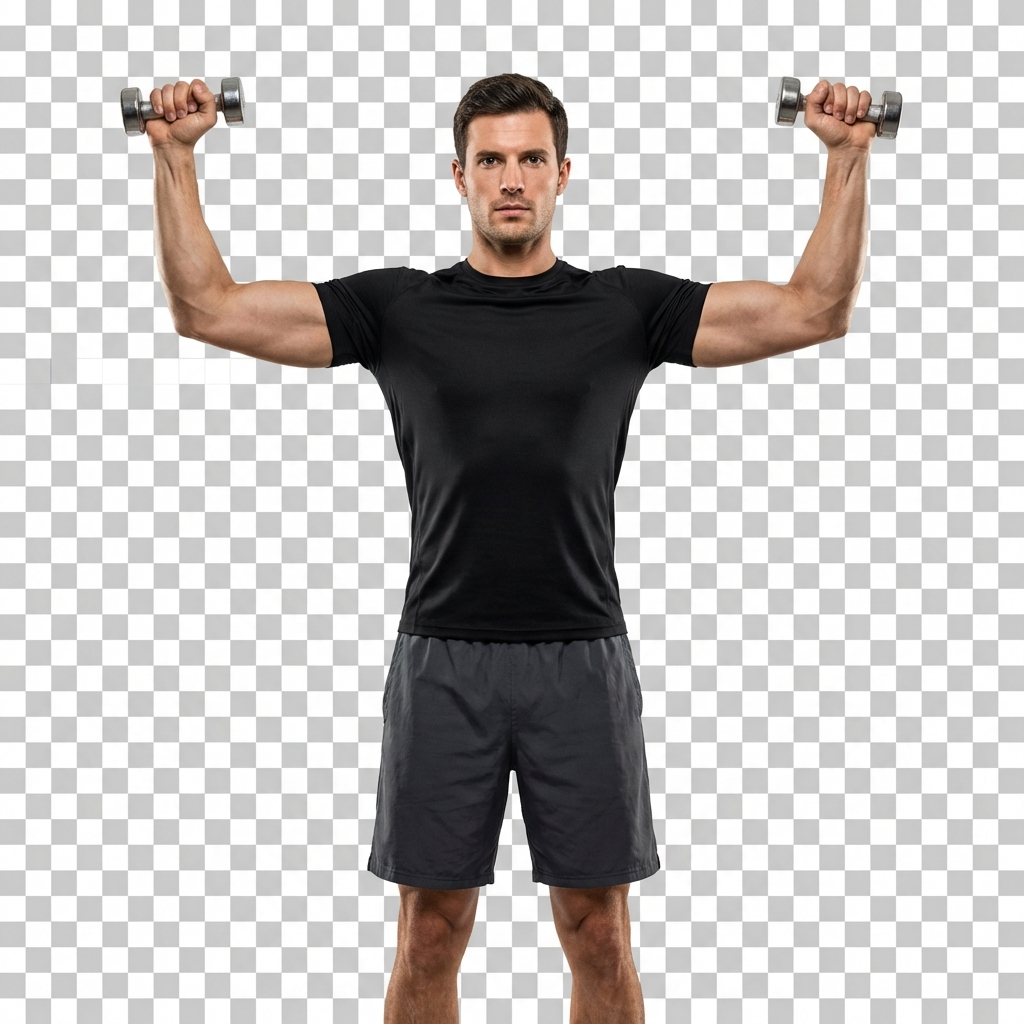
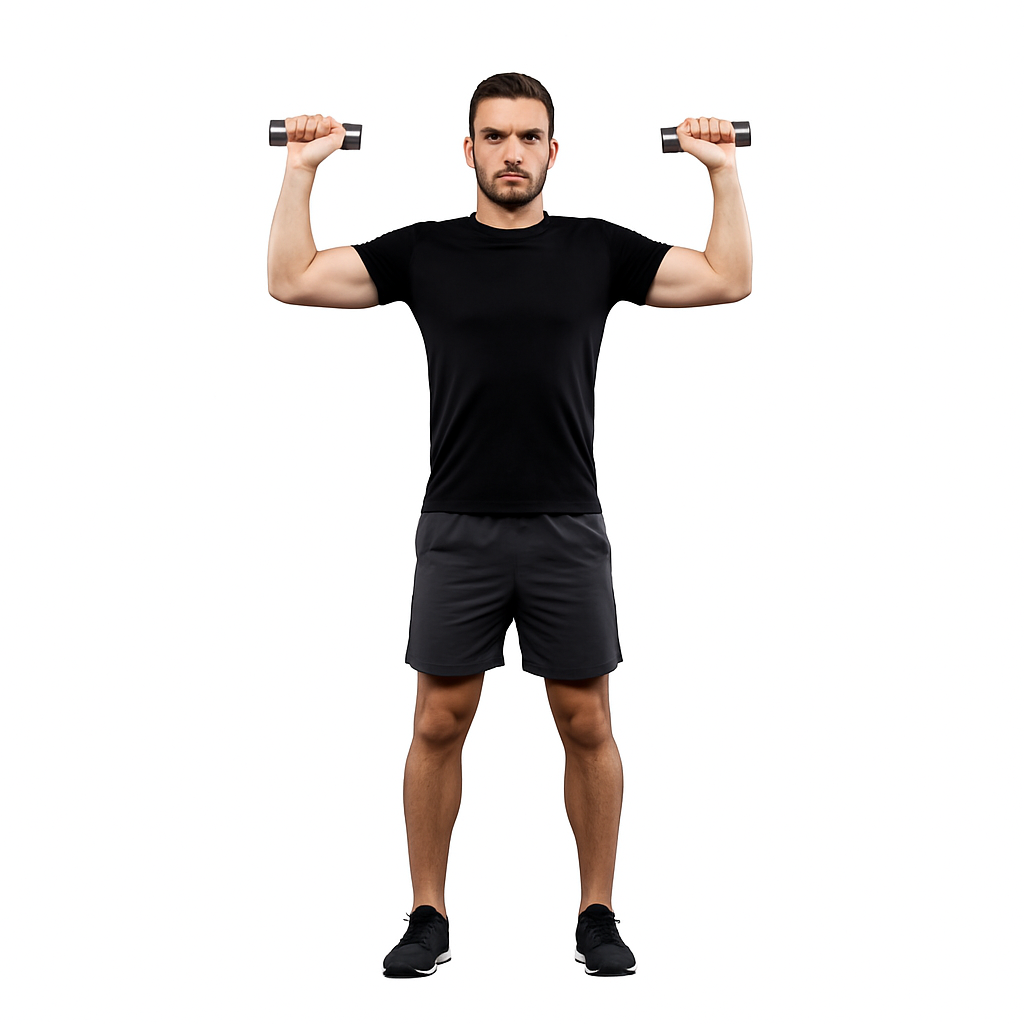
feat(home): Refactor TTodayStatsCard to use StatBox component and update color tokens for light/dark modes

diff --git a/components/TTodayStatsCard/index.tsx b/components/TTodayStatsCard/index.tsx
@@ -1,37 +1,57 @@
 import React from "react";
 import { useTranslation } from "react-i18next";
-import type { ColorValue } from "react-native";
 import { Card, H5, Text, XStack, YStack } from "tamagui";
 
 import type { TodayStats } from "@/app/home/hooks/useHomeStats";
-import { useColorScheme } from "@/hooks/useColorScheme";
 
 interface TTodayStatsCardProps {
   stats: TodayStats;
 }
 
+interface StatBoxProps {
+  value: string | number;
+  label: string;
+  colorScheme: "blue" | "green" | "purple" | "orange";
+}
+
+const StatBox: React.FC<StatBoxProps> = ({ value, label, colorScheme }) => {
+  const colorMap = {
+    blue: { bg: "$blue3" as const, text: "$blue11" as const },
+    green: { bg: "$green3" as const, text: "$green11" as const },
+    purple: { bg: "$purple3" as const, text: "$purple11" as const },
+    orange: { bg: "$orange3" as const, text: "$orange11" as const },
+  };
+
+  const colors = colorMap[colorScheme];
+
+  return (
+    <YStack
+      flex={1}
+      $sm={{ minWidth: "48%" }}
+      $gtSm={{ minWidth: 100 }}
+      gap="$1"
+      alignItems="center"
+      padding="$3"
+      backgroundColor={colors.bg as any}
+      borderRadius="$4"
+    >
+      <Text fontSize="$9" fontWeight="700" color={colors.text as any}>
+        {value}
+      </Text>
+      <Text
+        fontSize="$3"
+        fontWeight="600"
+        color={colors.text as any}
+        textAlign="center"
+      >
+        {label}
+      </Text>
+    </YStack>
+  );
+};
+
 export const TTodayStatsCard: React.FC<TTodayStatsCardProps> = ({ stats }) => {
   const { t } = useTranslation();
-  const colorScheme = useColorScheme();
-  const isDark = colorScheme === "dark";
-
-  // Colors that adapt to theme
-  const blueBox = {
-    bg: (isDark ? "#1e3a8a" : "#dbeafe") as ColorValue,
-    text: (isDark ? "#93c5fd" : "#2563eb") as ColorValue,
-  };
-  const greenBox = {
-    bg: (isDark ? "#065f46" : "#d1fae5") as ColorValue,
-    text: (isDark ? "#6ee7b7" : "#059669") as ColorValue,
-  };
-  const purpleBox = {
-    bg: (isDark ? "#581c87" : "#e9d5ff") as ColorValue,
-    text: (isDark ? "#c084fc" : "#9333ea") as ColorValue,
-  };
-  const orangeBox = {
-    bg: (isDark ? "#9a3412" : "#fed7aa") as ColorValue,
-    text: (isDark ? "#fdba74" : "#ea580c") as ColorValue,
-  };
 
   return (
     <Card
@@ -47,98 +67,30 @@ export const TTodayStatsCard: React.FC<TTodayStatsCardProps> = ({ stats }) => {
         </H5>
 
         <XStack gap="$3" flexWrap="wrap">
-          <YStack
-            flex={1}
-            minWidth={80}
-            gap="$1"
-            alignItems="center"
-            padding="$3"
-            backgroundColor={blueBox.bg as any}
-            borderRadius="$4"
-          >
-            <Text fontSize="$9" fontWeight="700" color={blueBox.text as any}>
-              {stats.totalReps}
-            </Text>
-            <Text
-              fontSize="$3"
-              fontWeight="600"
-              color={blueBox.text as any}
-              textAlign="center"
-            >
-              {t("home.todayStats.reps")}
-            </Text>
-          </YStack>
+          <StatBox
+            value={stats.totalReps}
+            label={t("home.todayStats.reps")}
+            colorScheme="blue"
+          />
 
-          <YStack
-            flex={1}
-            minWidth={80}
-            gap="$1"
-            alignItems="center"
-            padding="$3"
-            backgroundColor={greenBox.bg as any}
-            borderRadius="$4"
-          >
-            <Text fontSize="$9" fontWeight="700" color={greenBox.text as any}>
-              {stats.sessionsCompleted}
-            </Text>
-            <Text
-              fontSize="$3"
-              fontWeight="600"
-              color={greenBox.text as any}
-              textAlign="center"
-            >
-              {t("home.todayStats.sessions")}
-            </Text>
-          </YStack>
+          <StatBox
+            value={stats.sessionsCompleted}
+            label={t("home.todayStats.sessions")}
+            colorScheme="green"
+          />
 
-          <YStack
-            flex={1}
-            minWidth={80}
-            gap="$1"
-            alignItems="center"
-            padding="$3"
-            backgroundColor={purpleBox.bg as any}
-            borderRadius="$4"
-          >
-            <Text fontSize="$9" fontWeight="700" color={purpleBox.text as any}>
-              {stats.totalMinutes}
-            </Text>
-            <Text
-              fontSize="$3"
-              fontWeight="600"
-              color={purpleBox.text as any}
-              textAlign="center"
-            >
-              {t("home.todayStats.minutes")}
-            </Text>
-          </YStack>
+          <StatBox
+            value={stats.totalMinutes}
+            label={t("home.todayStats.minutes")}
+            colorScheme="purple"
+          />
 
           {stats.stepsWalked > 0 && (
-            <YStack
-              flex={1}
-              minWidth={80}
-              gap="$1"
-              alignItems="center"
-              padding="$3"
-              backgroundColor={orangeBox.bg as any}
-              borderRadius="$4"
-            >
-              <Text
-                fontSize="$9"
-                fontWeight="700"
-                color={orangeBox.text as any}
-              >
-                {stats.stepsWalked.toLocaleString()}
-              </Text>
-              <Text
-                fontSize="$3"
-                fontWeight="600"
-                color={orangeBox.text as any}
-                textAlign="center"
-              >
-                {t("home.todayStats.steps")}
-              </Text>
-            </YStack>
+            <StatBox
+              value={stats.stepsWalked.toLocaleString()}
+              label={t("home.todayStats.steps")}
+              colorScheme="orange"
+            />
           )}
         </XStack>
       </YStack>

diff --git a/tamagui.config.ts b/tamagui.config.ts
@@ -89,6 +89,38 @@ const tokens = createTokens({
     // Transparent colors
     transparent: "rgba(0,0,0,0)",
     whiteTransparent: "rgba(255,255,255,0)",
+
+    // Stats card colors - Blue (Light mode)
+    blue3Light: "#dbeafe", // blue-100
+    blue11Light: "#2563eb", // blue-600
+
+    // Stats card colors - Blue (Dark mode)
+    blue3Dark: "#1e3a8a", // blue-800
+    blue11Dark: "#93c5fd", // blue-300
+
+    // Stats card colors - Green (Light mode)
+    green3Light: "#d1fae5", // green-100
+    green11Light: "#059669", // green-600
+
+    // Stats card colors - Green (Dark mode)
+    green3Dark: "#065f46", // green-800
+    green11Dark: "#6ee7b7", // green-300
+
+    // Stats card colors - Purple (Light mode)
+    purple3Light: "#e9d5ff", // purple-200
+    purple11Light: "#9333ea", // purple-600
+
+    // Stats card colors - Purple (Dark mode)
+    purple3Dark: "#581c87", // purple-900
+    purple11Dark: "#c084fc", // purple-400
+
+    // Stats card colors - Orange (Light mode)
+    orange3Light: "#fed7aa", // orange-200
+    orange11Light: "#ea580c", // orange-600
+
+    // Stats card colors - Orange (Dark mode)
+    orange3Dark: "#9a3412", // orange-800
+    orange11Dark: "#fdba74", // orange-300
   },
   radius: {
     $0: 0,
@@ -139,6 +171,16 @@ const lightTheme = {
   error: tokens.color.errorLight,
   warning: tokens.color.warningLight,
   info: tokens.color.infoLight,
+
+  // Stats card colors - Light mode
+  blue3: tokens.color.blue3Light,
+  blue11: tokens.color.blue11Light,
+  green3: tokens.color.green3Light,
+  green11: tokens.color.green11Light,
+  purple3: tokens.color.purple3Light,
+  purple11: tokens.color.purple11Light,
+  orange3: tokens.color.orange3Light,
+  orange11: tokens.color.orange11Light,
 };
 
 // Create dark theme
@@ -170,6 +212,16 @@ const darkTheme = {
   error: tokens.color.errorDark,
   warning: tokens.color.warningDark,
   info: tokens.color.infoDark,
+
+  // Stats card colors - Dark mode
+  blue3: tokens.color.blue3Dark,
+  blue11: tokens.color.blue11Dark,
+  green3: tokens.color.green3Dark,
+  green11: tokens.color.green11Dark,
+  purple3: tokens.color.purple3Dark,
+  purple11: tokens.color.purple11Dark,
+  orange3: tokens.color.orange3Dark,
+  orange11: tokens.color.orange11Dark,
 };
 
 // Create Tamagui configuration
